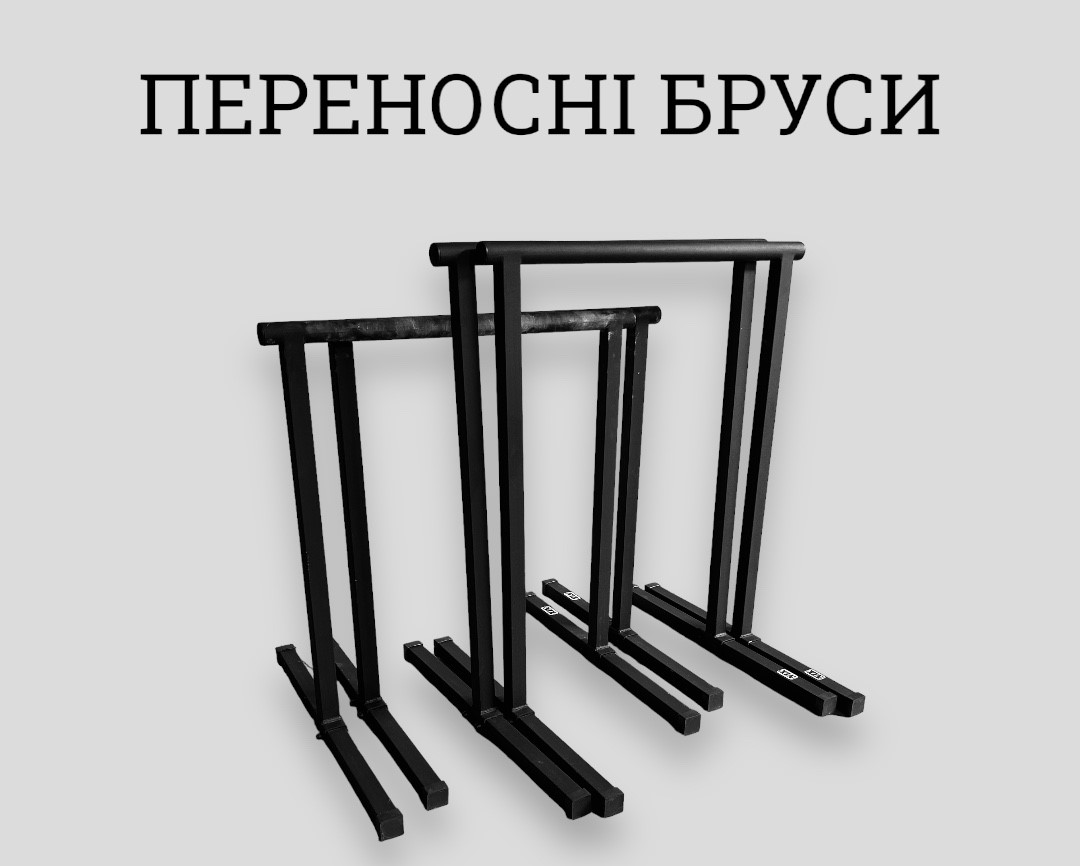
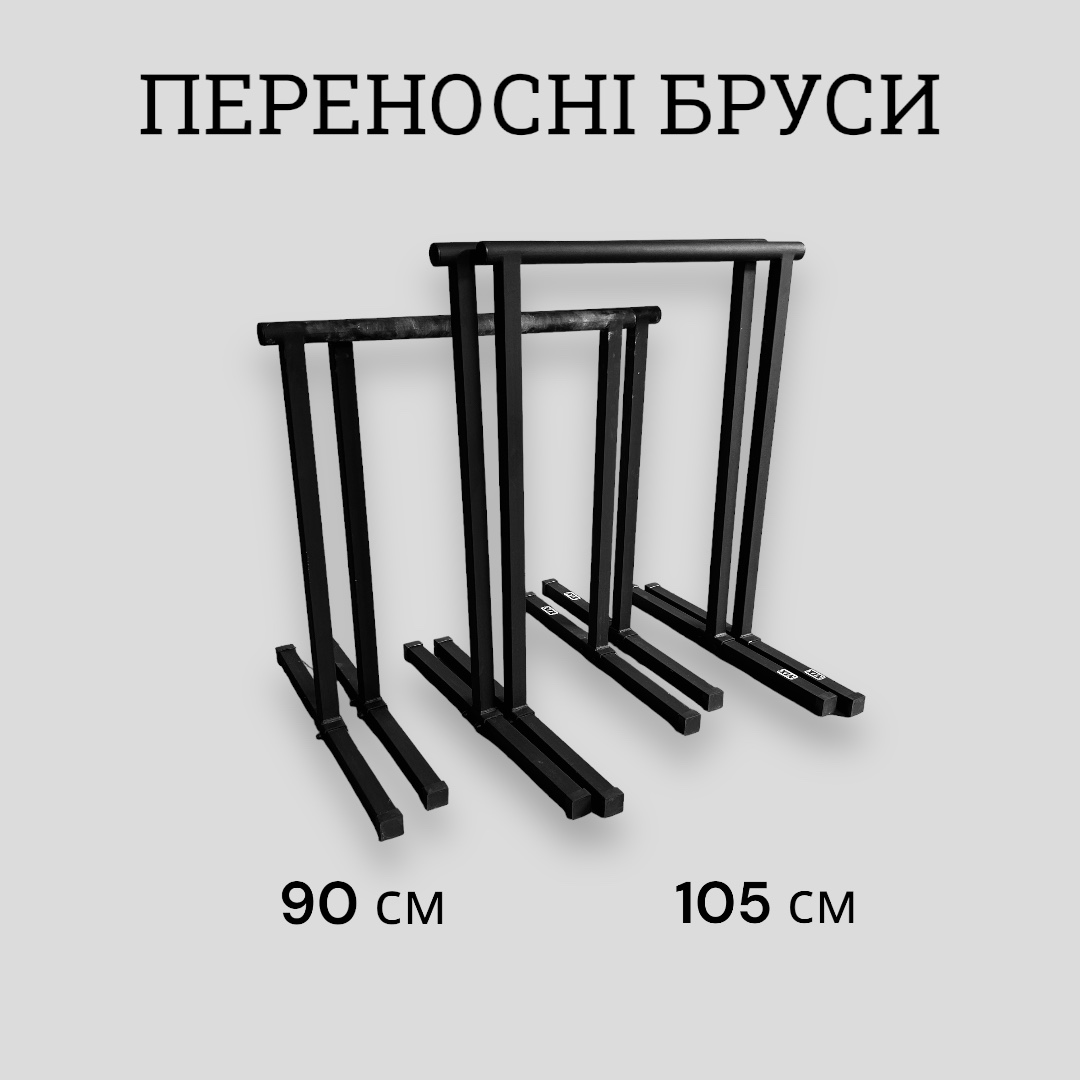
add stand component

Changed region(s): [[0.2139, 0.2182, 0.7944, 0.9977], [0.1222, 0.0624, 0.8861, 0.1559]]

diff --git a/src/views/MyCatalog.vue b/src/views/MyCatalog.vue
@@ -3,20 +3,21 @@
     <div class="flex justify-center items-center">
       <div class="2xl:mx-auto 2xl:container py-6 bg-stone-100 px-4 sm:px-6 xl:px-20 2xl:px-0 w-full">
         <div class="flex flex-col jusitfy-center items-center space-y-10">
-          <router-link to="/bars">
           <div class="grid grid-cols-1 md:grid-cols-2 lg:grid-cols-3  md:gap-x-8  w-full">
-            <div class="relative group flex justify-center items-center h-full w-full">
-              <img class="object-center object-cover h-full w-full"
-                   src="/images/catalog/men_bars.jpg" alt="men"/>
-              <button
-                  class="focus:outline-none focus:ring-2 focus:ring-offset-2 focus:ring-gray-400 bottom-4 z-10 absolute
+            <router-link to="/bars">
+              <div class="relative group flex justify-center items-center h-full w-full">
+                <img class="object-center object-cover h-full w-full"
+                     src="/images/catalog/men_bars.jpg" alt="men"/>
+                <button
+                    class="focus:outline-none focus:ring-2 focus:ring-offset-2 focus:ring-gray-400 bottom-4 z-10 absolute
                   text-base font-medium leading-none text-gray-800 py-3 w-36 bg-white">
-                Турніки Настінні
-              </button>
-              <div
-                  class="absolute opacity-0 group-hover:opacity-100 transition duration-500 bottom-3 py-6 z-0 px-20 w-36
+                  Турніки Настінні
+                </button>
+                <div
+                    class="absolute opacity-0 group-hover:opacity-100 transition duration-500 bottom-3 py-6 z-0 px-20 w-36
                   bg-white bg-opacity-50"></div>
-            </div>
+              </div>
+            </router-link>
             <div class="flex flex-col space-y-4 md:space-y-8 mt-4 md:mt-0">
               <div class="relative group flex justify-center items-center h-full w-full">
                 <img class="object-center object-cover h-full w-full"
@@ -43,10 +44,10 @@
                     w-36 bg-white bg-opacity-50"></div>
               </div>
             </div>
-
+            <router-link to="/low_bars">
             <div class="relative group justify-center items-center h-full w-full hidden lg:flex">
               <img class="object-center object-cover h-full w-full"
-                   src="/images/catalog/men_low_bars.jpg" alt="girl-image"/>
+                   src="/images/catalog/men_low_bars.jpg" alt="image"/>
               <button
                   class="focus:outline-none focus:ring-2 focus:ring-offset-2 focus:ring-gray-400 bottom-4 z-10 absolute text-base font-medium leading-none text-gray-800 py-3 w-36 bg-white">
                 Переносні Бруси
@@ -54,6 +55,8 @@
               <div
                   class="absolute opacity-0 group-hover:opacity-100 transition duration-500 bottom-3 py-6 z-0 px-20 w-36 bg-white bg-opacity-50"></div>
             </div>
+            </router-link>
+            <router-link to="/low_bars">
             <div class="relative group flex justify-center items-center h-full w-full mt-4 md:hidden md:mt-8 lg:hidden">
               <img class="object-center object-cover h-full w-full hidden md:block"
                    src="/images/catalog/men_low_bars.jpg" alt="girl-image"/>
@@ -67,8 +70,9 @@
               <div
                   class="absolute opacity-0 group-hover:opacity-100 transition duration-500 bottom-3 py-6 z-0 px-20 w-36 bg-white bg-opacity-50"></div>
             </div>
+            </router-link>
           </div>
-          </router-link>
+          <router-link to="/low_bars">
           <div class="relative group hidden md:flex justify-center items-center h-full w-full mt-4 md:mt-8 lg:hidden">
             <img class="object-center object-cover h-full w-full hidden md:block"
                  src="/images/catalog/men_low_bars.jpg" alt="girl-image"/>
@@ -82,6 +86,7 @@
             <div
                 class="absolute opacity-0 group-hover:opacity-100 transition duration-500 bottom-3 py-6 z-0 px-20 w-36 bg-white bg-opacity-50"></div>
           </div>
+          </router-link>
         </div>
       </div>
     </div>
@@ -91,6 +96,7 @@
       <div class="2xl:mx-auto 2xl:container py-6 bg-stone-100 px-4 sm:px-6 xl:px-20 2xl:px-0 w-full">
         <div class="flex flex-col jusitfy-center items-center space-y-10">
           <div class="grid grid-cols-1 md:grid-cols-2 lg:grid-cols-3 md:gap-x-8  w-full">
+            <router-link to="/stand">
             <div class="relative group flex justify-center items-center h-full w-full">
               <img class="object-center object-cover h-full w-full"
                    src="/images/catalog/men_stand.jpg" alt="girl-image"/>
@@ -103,6 +109,7 @@
                   class="absolute opacity-0 group-hover:opacity-100 transition duration-500 bottom-3 py-6 z-0 px-20 w-36
                   bg-white bg-opacity-50"></div>
             </div>
+            </router-link>
             <div class="flex flex-col space-y-4 md:space-y-8 mt-4 md:mt-0">
               <div class="relative group flex justify-center items-center h-full w-full">
                 <img class="object-center object-cover h-full w-full"

diff --git a/src/views/products/Stand.vue b/src/views/products/Stand.vue
@@ -2,12 +2,12 @@
 import { db } from '../../firebaseConfig.js'
 import { getDocs, collection } from 'firebase/firestore'
 import { ref, onMounted } from 'vue';
-const barsData = ref([]);
+const standData = ref([]);
 onMounted(async () => {
 
   try {
-    const querySnapshot = await getDocs(collection(db, 'bars'));
-    barsData.value = querySnapshot.docs.map(doc => doc.data());
+    const querySnapshot = await getDocs(collection(db, 'stand'));
+    standData.value = querySnapshot.docs.map(doc => doc.data());
   } catch (error) {
     console.error('Error while retrieving data from Firestore:', error);
   }
@@ -19,10 +19,10 @@ onMounted(async () => {
            class="w-fit mx-auto grid grid-cols-1 lg:grid-cols-3 md:grid-cols-2 justify-items-center justify-center
            gap-y-20 gap-x-14 mt-10 mb-5 ">
     <div class="w-72 bg-white shadow-md rounded-xl duration-500 hover:scale-105 hover:shadow-xl animate-fade-down animate-duration-1000"
-         v-for="items in barsData" :key="items.id">
+         v-for="items in standData" :key="items.id">
       <a href="#">
         <img :src="items.image"
-             alt="Product" class="h-auto w-72 object-cover rounded-t-xl" />
+             alt="Product" class="w-72 object-cover rounded-t-xl h-auto" />
         <div class="px-4 py-3 w-72">
           <span class="text-gray-400 mr-3 uppercase text-xs logo">NIX</span>
           <p class="text-lg font-bold text-black truncate block">{{items.size}}</p>

diff --git a/src/views/products/LowBars.vue b/src/views/products/LowBars.vue
@@ -22,7 +22,7 @@ onMounted(async () => {
          v-for="items in lowBarsData" :key="items.id">
       <a href="#">
         <img :src="items.image"
-             alt="Product" class="h-80 w-72 object-cover rounded-t-xl" />
+             alt="Product" class="h-auto w-72 object-cover rounded-t-xl" />
         <div class="px-4 py-3 w-72">
           <span class="text-gray-400 mr-3 uppercase text-xs logo">NIX</span>
           <p class="text-lg font-bold text-black truncate block">{{items.size}}</p>

diff --git a/src/routes.js b/src/routes.js
@@ -31,6 +31,11 @@ const routes = [
         name: 'low_bars',
         component: () => import('./views/products/LowBars.vue')
     },
+    {
+        path: '/stand',
+        name: 'stand',
+        component: () => import('./views/products/Stand.vue')
+    },
 ];
 
 const router = createRouter({
